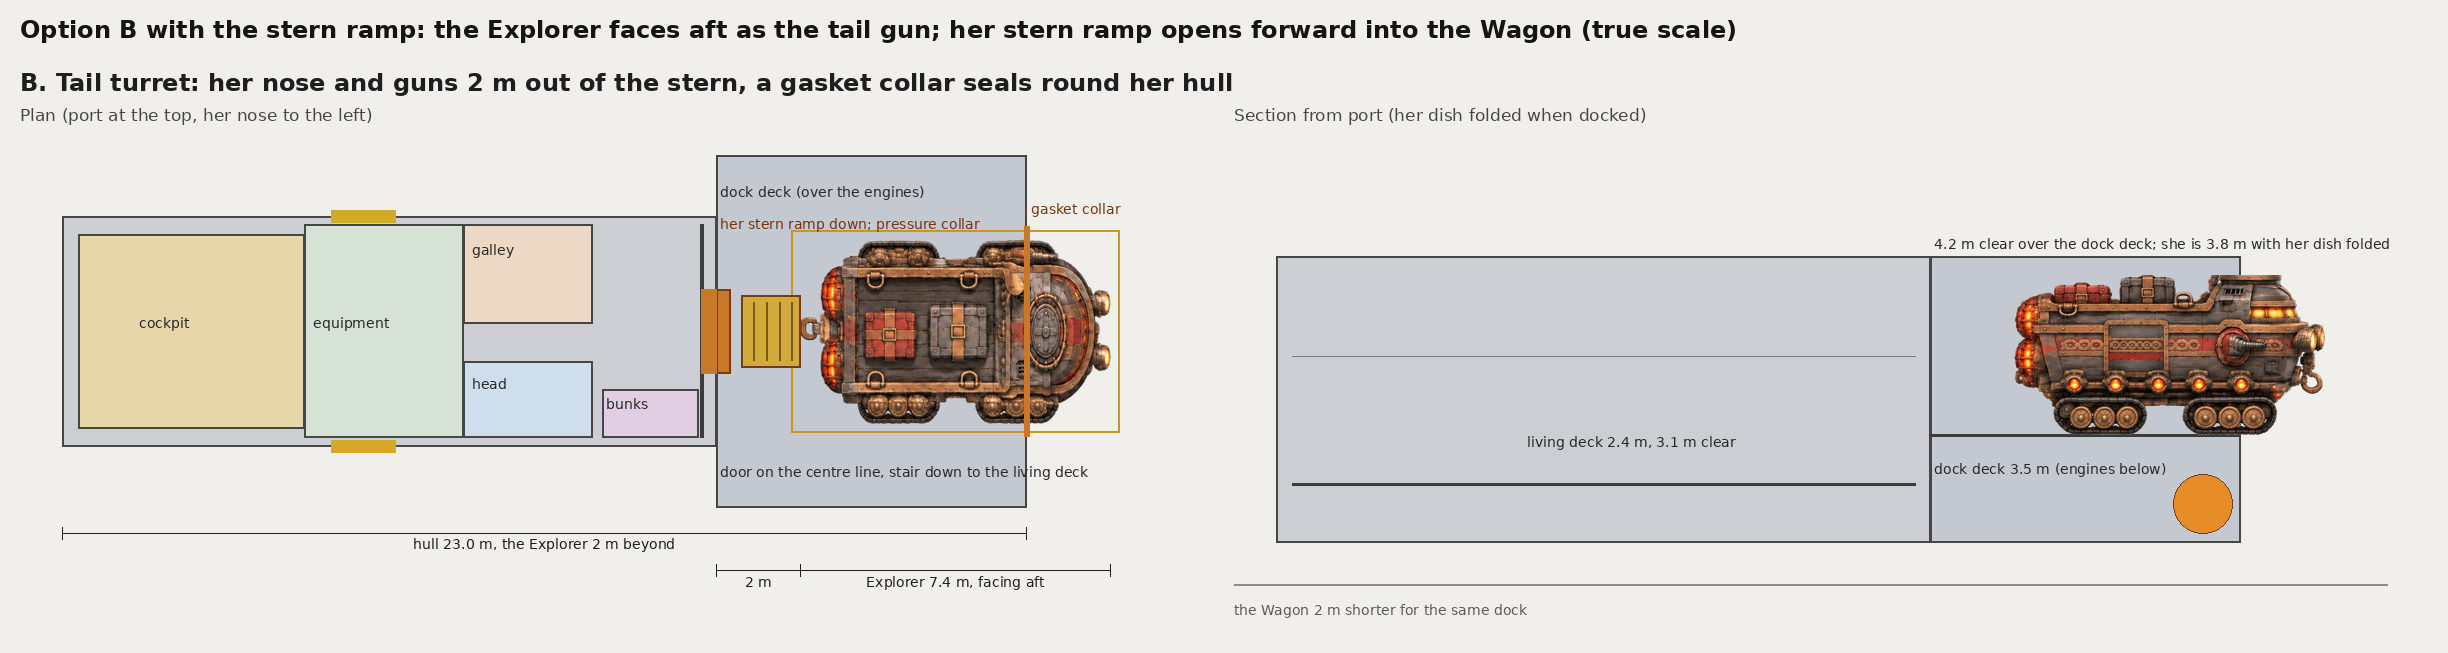
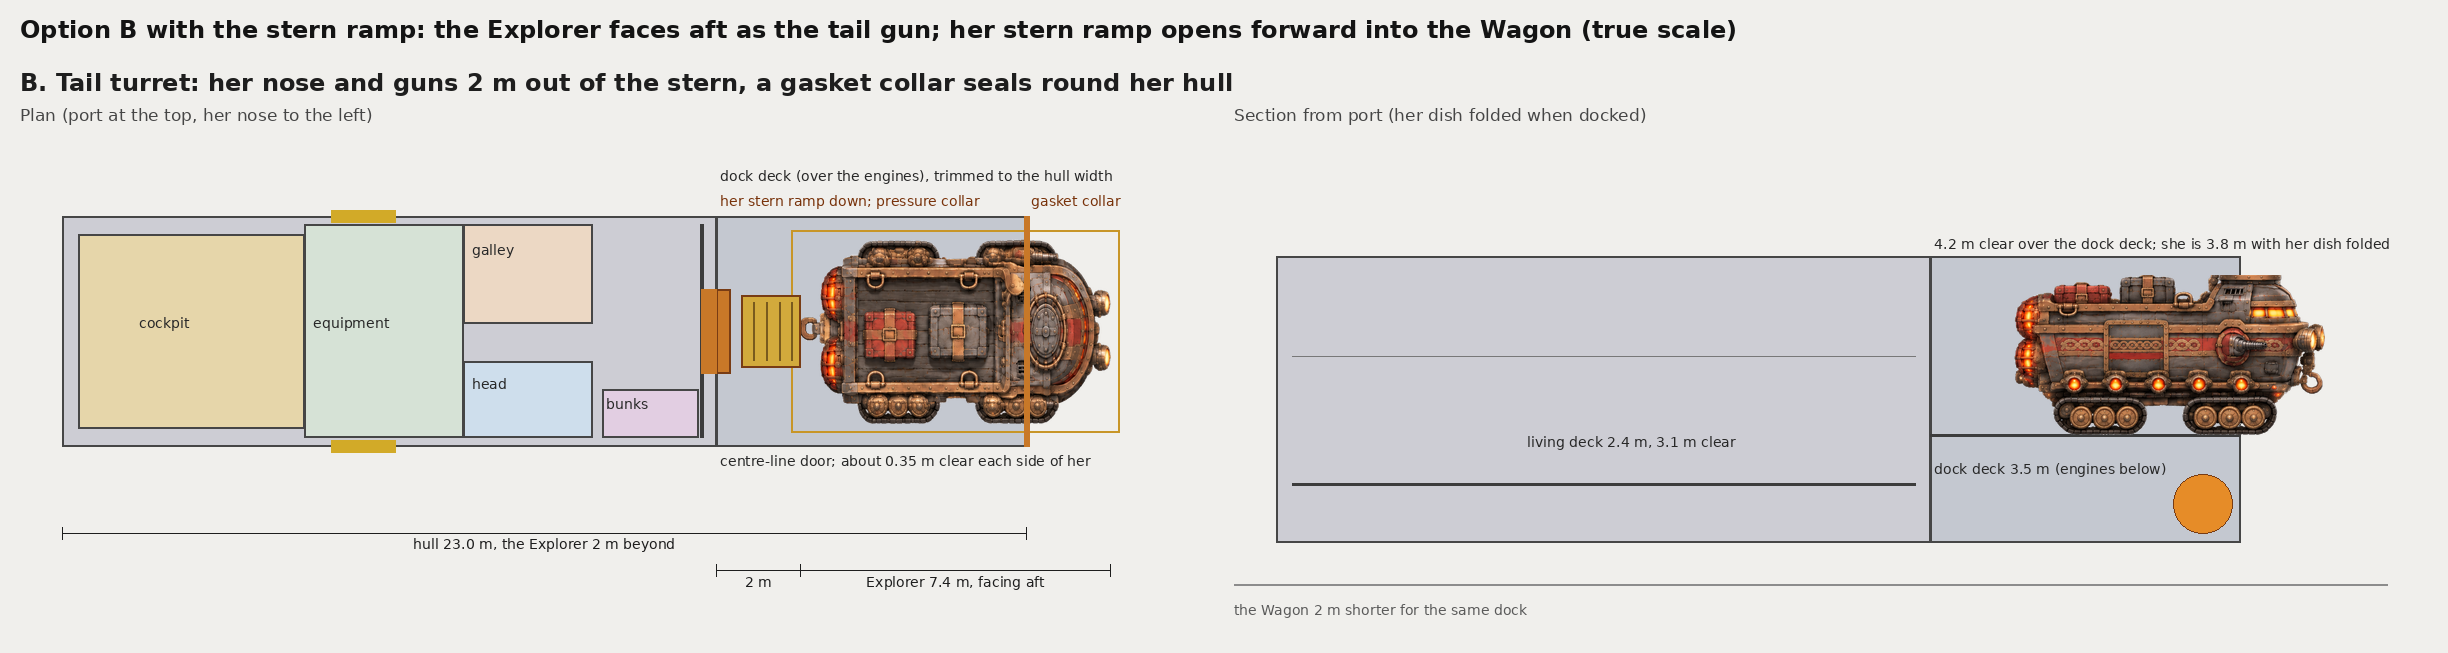
Wagon dock map B: bay trimmed to the hull width
Claude-Session: https://claude.ai/code/session_018uw49qxrYcPbfx6dYbzuS6

Changed region(s): [[0.2794, 0.2144, 0.4657, 0.3675], [0.2794, 0.6738, 0.4657, 0.7963]]

diff --git a/views/wagon_explorer_dock/make_dock_map_b_ramp.py b/views/wagon_explorer_dock/make_dock_map_b_ramp.py
@@ -37,7 +37,7 @@ def plan_and_section(tag,title,out_m,note):
     def P(z,x): return (ox+(z-mx0)*PPM, oy+(x+HULL_X)*PPM)
     def rect(z0,z1,x0,x1,fill,outline=(70,70,70),w=2): g.rectangle([P(z0,x0),P(z1,x1)],fill=fill,outline=outline,width=w)
     rect(NOSE_SKIN,Z_AFT+0.35,-X_IN-0.2,X_IN+0.2,(205,205,212))           # body
-    rect(DOCK_Z0,stern,-HULL_X,HULL_X,(196,200,208))                     # dock section
+    rect(DOCK_Z0,stern,-X_IN-0.2,X_IN+0.2,(196,200,208))                     # dock section
     rect(NOSE_SKIN+0.4,Z_CK,-1.95*K,1.95*K,(230,214,170)); g.text(P(Z_NOSE+0.3,-0.4),'cockpit',fill=(40,40,40),font=FS)
     rect(Z_CK,GAL[0],-X_IN,X_IN,(214,226,214)); g.text(P(Z_CK+0.2,-0.4),'equipment',fill=(40,40,40),font=FS)
     for sx in (-1,1): g.rectangle([P(HATCH_Z-HATCH_W/2,sx*(X_IN+0.2)-0.15),P(HATCH_Z+HATCH_W/2,sx*(X_IN+0.2)+0.15)],fill=(210,170,40))
@@ -53,11 +53,11 @@ def plan_and_section(tag,title,out_m,note):
     g.rectangle([P(ez0-1.4,-0.85),P(ez0,0.85)],fill=(210,170,60),outline=(120,60,20),width=2)
     for k in range(4): zz=ez0-1.4+0.3+k*0.3; g.line([P(zz,-0.7),P(zz,0.7)],fill=(120,90,30),width=2)
     g.rectangle([P(DOCK_Z0,-1.0),P(DOCK_Z0+0.35,1.0)],fill=(200,120,40),outline=(120,60,20),width=2)
-    g.text(P(DOCK_Z0+0.1,-2.75),'her stern ramp down; pressure collar',fill=(120,50,10),font=FS)
+    g.text(P(DOCK_Z0+0.1,-X_IN-0.75),'her stern ramp down; pressure collar',fill=(120,50,10),font=FS)
     g.rectangle([P(Z_AFT,-1.0),P(Z_AFT+0.35,1.0)],fill=(200,120,40))   # the door aft of the bunks, on the centre line
-    g.text(P(DOCK_Z0+0.1,DOCK_X-0.55),'door on the centre line, stair down to the living deck',fill=(40,40,40),font=FS)
-    g.text(P(DOCK_Z0+0.1,-DOCK_X+0.2),'dock deck (over the engines)',fill=(40,40,40),font=FS)
-    if tag=='B': g.text(P(stern+0.1,-EX_W/2-0.9),'gasket collar',fill=(120,50,10),font=FS); g.line([P(stern,-EX_W/2-0.3),P(stern,EX_W/2+0.3)],fill=(200,120,40),width=6)
+    g.text(P(DOCK_Z0+0.1,X_IN+0.35),'centre-line door; about 0.35 m clear each side of her',fill=(40,40,40),font=FS)
+    g.text(P(DOCK_Z0+0.1,-X_IN-1.35),'dock deck (over the engines), trimmed to the hull width',fill=(40,40,40),font=FS)
+    if tag=='B': g.text(P(stern+0.1,-X_IN-0.75),'gasket collar',fill=(120,50,10),font=FS); g.line([P(stern,-X_IN-0.2),P(stern,X_IN+0.2)],fill=(200,120,40),width=6)
     if tag=='A':
         for sx in (-1,1): g.rectangle([P(stern-0.2,sx*1.3-0.35),P(stern+0.05,sx*1.3+0.35)],fill=(200,120,40))
         g.text(P(stern-3.2,-EX_W/2-0.9),'gun ports',fill=(120,50,10),font=FS)

diff --git a/views/wagon_explorer_dock/README.md b/views/wagon_explorer_dock/README.md
@@ -27,3 +27,5 @@ Conceptual design: stays with Aaron until he says to share it.
 ## Map B with the stern ramp (2026-11-26)
 
 Aaron chose B ("I like B the most"). `dock_map_b_stern_ramp.png` (from `make_dock_map_b_ramp.py`): the Wagon at 23.0 m, the Explorer docked facing aft as the tail gun, her stern ramp folding forward onto the dock deck inside a pressure collar on the dock's forward wall. The door from the living quarters is back on the centre line, as in Joe's layout.
+
+Aaron (14:38): "trim the extra width of the bay area". The dock section is now the body's width (about 5.5 m outside); the Explorer (4.4 m) sits in it with about 0.35 m clear each side.
